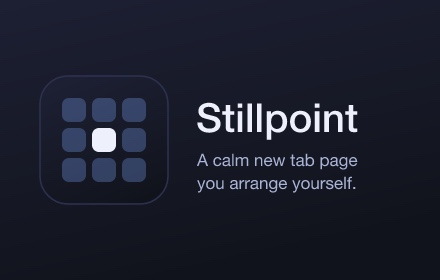
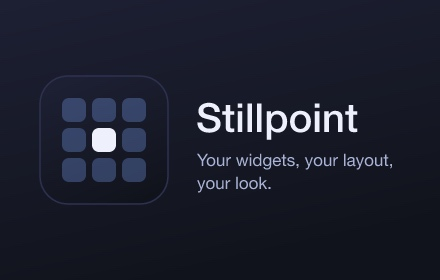
docs: describe Stillpoint by its personalization, not as calm

Changed region(s): [[0.4432, 0.5429, 0.8864, 0.6857]]

diff --git a/README.md b/README.md
@@ -1,6 +1,6 @@
 # Stillpoint
 
-A calm, personalizable new tab page for Firefox.
+A personalizable new tab page for Firefox: your widgets, your layout, your look.
 
 ![Stillpoint on a photo background: the date and clock, a search box and links, with Weather and Calendar widgets on frosted cards](screenshots/overview.jpg)
 
